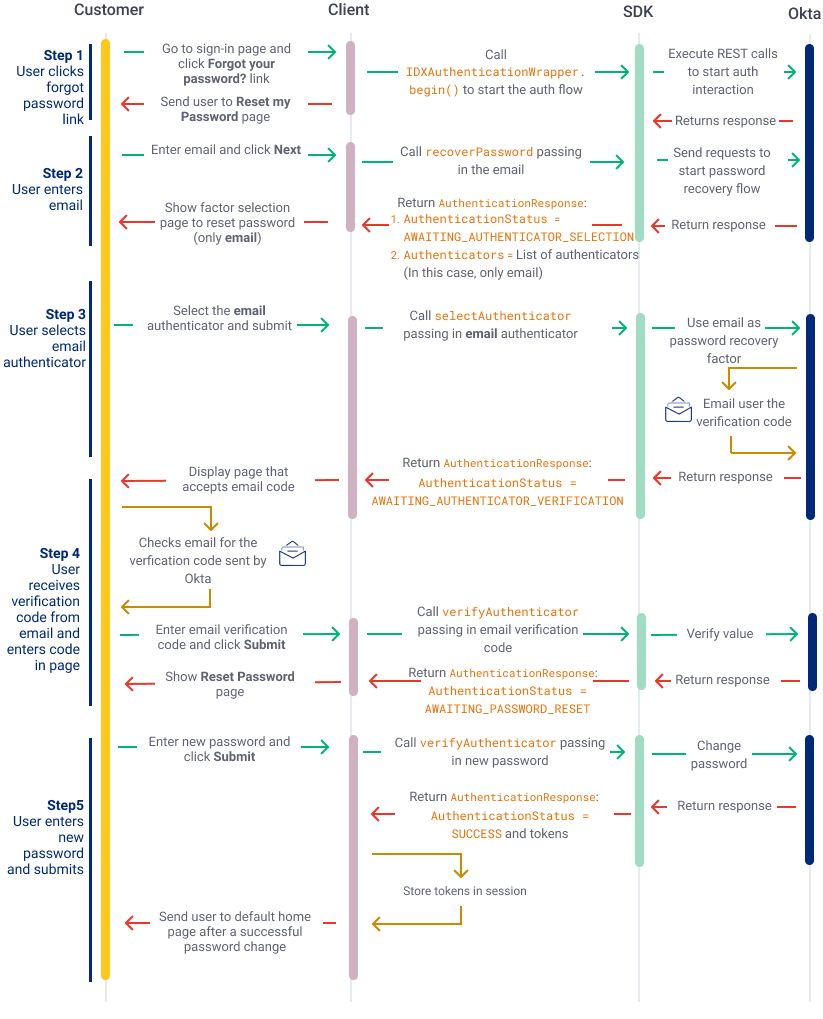
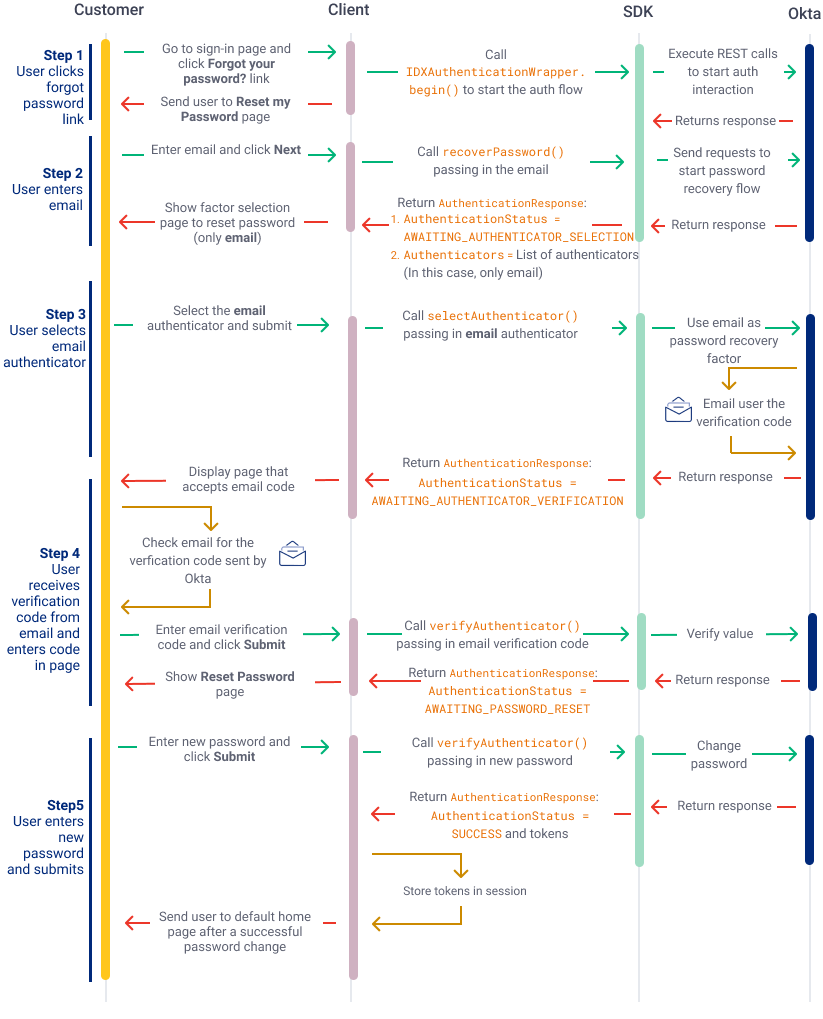
implemented Chris's feedback

diff --git a/packages/@okta/vuepress-site/docs/guides/oie-embedded-sdk-use-cases/oie-embedded-sdk-use-case-pwd-recovery-mfa/java/integrationsteps.md b/packages/@okta/vuepress-site/docs/guides/oie-embedded-sdk-use-cases/oie-embedded-sdk-use-case-pwd-recovery-mfa/java/integrationsteps.md
@@ -2,7 +2,7 @@
 
 ### Step 1: User clicks forgot password link
 
-The password recovery flow begins when the user clicks the **Forgot your password?** link on your app's sign-in page. Create a **Forgot your password?** link that directs the user to a reset my password form, such as the following example:
+The password recovery flow begins when the user clicks the **Forgot your password?** link on your app's sign-in page.
 
 <div class="common-image-format">
 
@@ -18,7 +18,7 @@ You need to create a form to capture the user's email for password recovery, suc
 
 </div>
 
-Begin the authentication process by calling Java SDK's [`IDXAuthenticationWrapper.begin()`](https://github.com/okta/okta-idx-java/blob/master/api/src/main/java/com/okta/idx/sdk/api/client/IDXAuthenticationWrapper.java#L603) method and getting a new [`ProceedContext`](https://github.com/okta/okta-idx-java/blob/master/api/src/main/java/com/okta/idx/sdk/api/client/ProceedContext.java) object.
+Begin the authentication process by calling the Java SDK's [`IDXAuthenticationWrapper.begin()`](https://github.com/okta/okta-idx-java/blob/master/api/src/main/java/com/okta/idx/sdk/api/client/IDXAuthenticationWrapper.java#L603) method and getting a new [`ProceedContext`](https://github.com/okta/okta-idx-java/blob/master/api/src/main/java/com/okta/idx/sdk/api/client/ProceedContext.java) object.
 
 ```java
 AuthenticationResponse beginResponse = idxAuthenticationWrapper.begin();
@@ -27,7 +27,7 @@ ProceedContext proceedContext = beginResponse.getProceedContext();
 
 ### Step 2: User enters their email
 
-After the user submits their email, call the [`IDXAuthenticationWrapper.recoverPassword()`](https://github.com/okta/okta-idx-java/blob/master/api/src/main/java/com/okta/idx/sdk/api/client/IDXAuthenticationWrapper.java#L177) method, passing in the user's email.
+After the user submits their email, call the [`IDXAuthenticationWrapper.recoverPassword()`](https://github.com/okta/okta-idx-java/blob/master/api/src/main/java/com/okta/idx/sdk/api/client/IDXAuthenticationWrapper.java#L177) method, passing in the user's email as the `username`.
 
 ```java
  AuthenticationResponse authenticationResponse =
@@ -36,10 +36,9 @@ After the user submits their email, call the [`IDXAuthenticationWrapper.recoverP
 
 If the email is for a valid and active user in the Okta directory, the `IDXAuthenticationWrapper.recoverPassword()` method returns an [`AuthenticationResponse`](https://github.com/okta/okta-idx-java/blob/master/api/src/main/java/com/okta/idx/sdk/api/response/AuthenticationResponse.java) object with the following properties:
 
-1. `AuthenticationStatus` = `AWAITING_AUTHENTICATOR_SELECTION` <br>
-     This status indicates that there are required authenticators that need to be verified.
+* `AuthenticationStatus=AWAITING_AUTHENTICATOR_SELECTION` &mdash; This status indicates that there are required authenticators that need to be verified.
 
-2. `Authenticators` = List of [authenticators](https://github.com/okta/okta-idx-java/blob/master/api/src/main/java/com/okta/idx/sdk/api/client/Authenticator.java) to be verified (in this case, there is only the email authenticator). <br>
+* `Authenticators` &mdash; List of [authenticators](https://github.com/okta/okta-idx-java/blob/master/api/src/main/java/com/okta/idx/sdk/api/client/Authenticator.java) to be verified (in this case, there is only the email authenticator). <br>
     Authenticators are the factor credentials that are owned or controlled by the user. These are verified during authentication.
 
 After receiving the `AWAITING_AUTHENTICATOR_SELECTION` status and the list of authenticators to be verified, provide the user with a form to select the authenticator to verify. In other words, provide the user with a list of recovery factors to use. In this use case, email is the only recovery factor available:
@@ -70,7 +69,7 @@ This Java SDK method sends the email authenticator selection to Okta. Okta sends
 
 ### Step 4: User submits email verification code
 
-The user receives the verification code in their email and submits it through the verify code form. Use [`VerifyAuthenticationOptions`](https://github.com/okta/okta-idx-java/blob/master/api/src/main/java/com/okta/idx/sdk/api/model/VerifyAuthenticatorOptions.java) to capture the code and send it to the `IDXAuthenticationWrapper.verifyAuthenticator()` method:
+The user receives the verification code in their email and submits it through the **Verify Code** form. Use [`VerifyAuthenticationOptions`](https://github.com/okta/okta-idx-java/blob/master/api/src/main/java/com/okta/idx/sdk/api/model/VerifyAuthenticatorOptions.java) to capture the code and send it to the `IDXAuthenticationWrapper.verifyAuthenticator()` method:
 
 ```java
 VerifyAuthenticatorOptions verifyAuthenticatorOptions = new VerifyAuthenticatorOptions(code);

diff --git a/packages/@okta/vuepress-site/docs/guides/oie-embedded-sdk-use-cases/oie-embedded-sdk-use-case-sign-in-pwd-phone/java/integrationsteps.md b/packages/@okta/vuepress-site/docs/guides/oie-embedded-sdk-use-cases/oie-embedded-sdk-use-case-sign-in-pwd-phone/java/integrationsteps.md
@@ -1,8 +1,8 @@
 ## Integration steps
 
-### Step 1: User launches sign-in page
+### Step 1: User initiates sign in
 
-Build a sign-in page for your app that captures both the username and password.
+Build a sign-in form for your app that captures both the username and password.
 
 <div class="common-image-format">
 
@@ -10,7 +10,7 @@ Build a sign-in page for your app that captures both the username and password.
 
 </div>
 
-Begin the authentication process by calling Java SDK's [`IDXAuthenticationWrapper.begin()`](https://github.com/okta/okta-idx-java/blob/master/api/src/main/java/com/okta/idx/sdk/api/client/IDXAuthenticationWrapper.java#L603) method and getting a new [`ProceedContext`](https://github.com/okta/okta-idx-java/blob/master/api/src/main/java/com/okta/idx/sdk/api/client/ProceedContext.java) object.
+Begin the authentication process by calling the Java SDK's [`IDXAuthenticationWrapper.begin()`](https://github.com/okta/okta-idx-java/blob/master/api/src/main/java/com/okta/idx/sdk/api/client/IDXAuthenticationWrapper.java#L603) method and getting a new [`ProceedContext`](https://github.com/okta/okta-idx-java/blob/master/api/src/main/java/com/okta/idx/sdk/api/client/ProceedContext.java) object.
 
 ```java
 AuthenticationResponse beginResponse = idxAuthenticationWrapper.begin();
@@ -28,13 +28,12 @@ AuthenticationResponse authenticationResponse =
 
 If the password is validated, the `IDXAuthenticationWrapper.authenticate()` method returns an [`AuthenticationResponse`](https://github.com/okta/okta-idx-java/blob/master/api/src/main/java/com/okta/idx/sdk/api/response/AuthenticationResponse.java) object with the following properties:
 
-1. `AuthenticationStatus` = `AWAITING_AUTHENTICATOR_ENROLLMENT_SELECTION` <br>
-     This status indicates that there are required authenticators that need to be enrolled.
+* `AuthenticationStatus=AWAITING_AUTHENTICATOR_ENROLLMENT_SELECTION` &mdash; This status indicates that there are required authenticators that need to be enrolled.
 
-2. `Authenticators` = List of [authenticators](https://github.com/okta/okta-idx-java/blob/master/api/src/main/java/com/okta/idx/sdk/api/client/Authenticator.java) to be enrolled (in this case, there is only the phone authenticator). <br>
+* `Authenticators` &mdash; List of [authenticators](https://github.com/okta/okta-idx-java/blob/master/api/src/main/java/com/okta/idx/sdk/api/client/Authenticator.java) to be enrolled (in this case, there is only the phone authenticator). <br>
     Authenticators are the factor credentials that are owned or controlled by the user. These are verified during authentication.
 
-> **Note:** If the user already has the phone authenticator enrolled, then `AuthenticationStatus` = `AWAITING_AUTHENTICATOR_SELECTION` is returned (instead of `AWAITING_AUTHENTICATOR_ENROLLMENT_SELECTION`) and the user does not have to enroll the phone authenticator with a phone number, bypassing steps [3](#step-3-user-selects-phone-authenticator) and [4](#step-4-user-enters-phone-number).
+> **Note:** If the user already has the phone authenticator enrolled, then `AuthenticationStatus=AWAITING_AUTHENTICATOR_SELECTION` is returned (instead of `AuthenticationStatus=AWAITING_AUTHENTICATOR_ENROLLMENT_SELECTION`) and the user does not have to enroll the phone authenticator with a phone number, bypassing steps [3](#step-3-user-selects-phone-authenticator) and [4](#step-4-user-enters-phone-number).
 
 After receiving the `AWAITING_AUTHENTICATOR_ENROLLMENT_SELECTION` status and the list of authenticators to be enrolled, provide the user with a form to select the authenticator to enroll. In the following example, phone is the only authenticator:
 

diff --git a/packages/@okta/vuepress-site/docs/guides/oie-embedded-sdk-use-cases/oie-embedded-sdk-use-case-pwd-recovery-mfa/java/summaryofsteps.md b/packages/@okta/vuepress-site/docs/guides/oie-embedded-sdk-use-cases/oie-embedded-sdk-use-case-pwd-recovery-mfa/java/summaryofsteps.md
@@ -1,6 +1,6 @@
 ## Summary of steps
 
-The following are the sequence of steps for the password recovery use case.
+The following diagram shows the sequence of steps for the password recovery use case.
 
 <div class="common-image-format">
 
